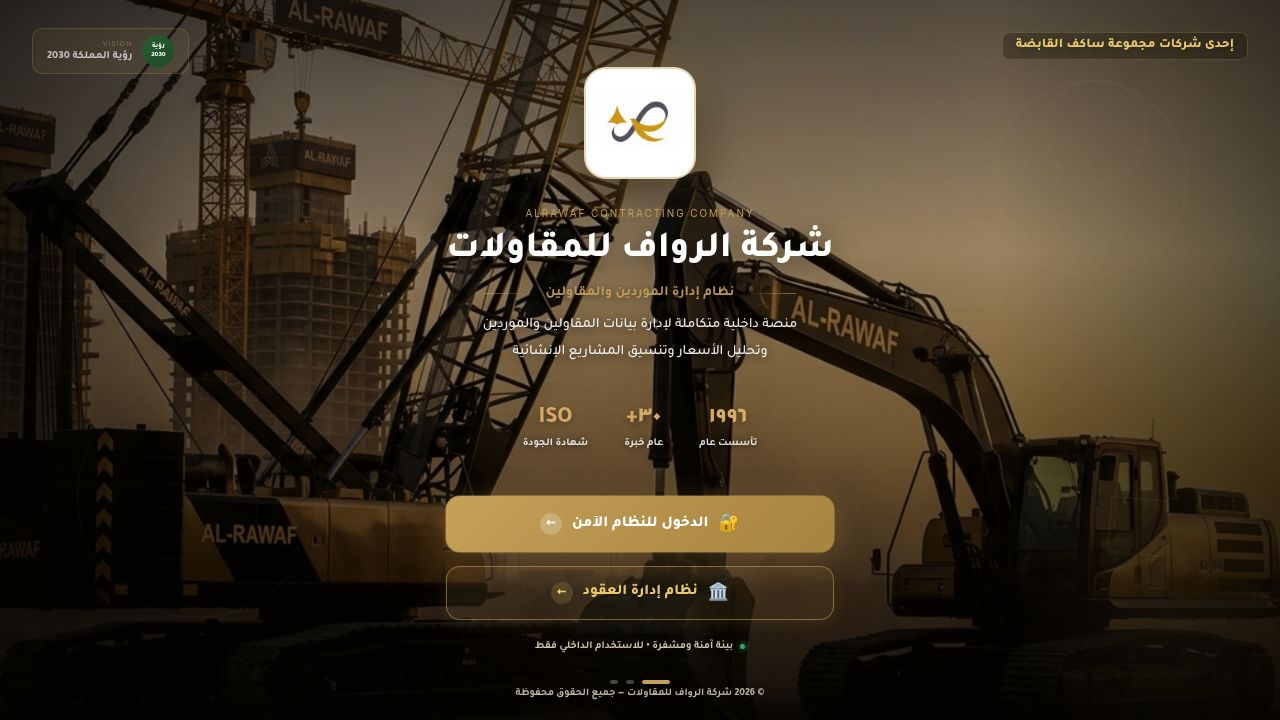
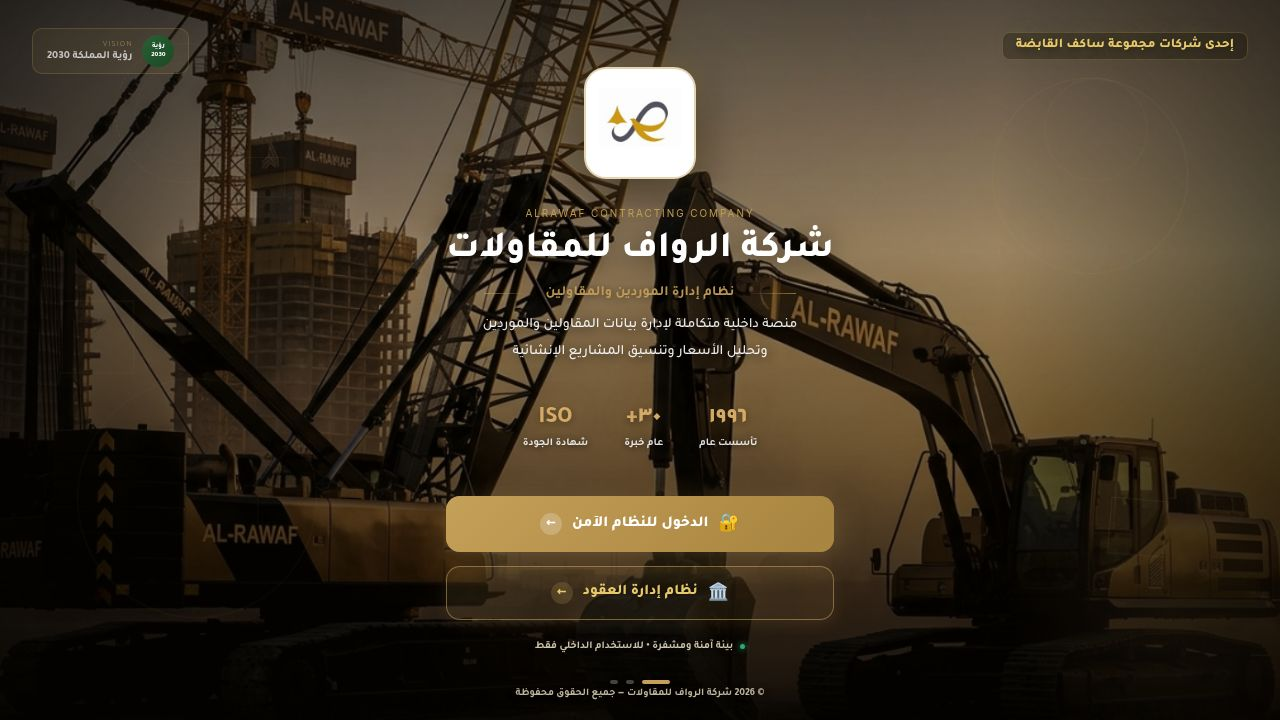
Add contract type breakdown chart to analytics dashboard
Task: #17 — Add a contract type breakdown chart to analytics

## What was done
- Added a new "توزيع العقود حسب النوع" (Contract Type Breakdown) section to
  ContractAnalytics.tsx, placed between the existing stage/status charts and
  the live activity feed.

## Implementation details
- `typeData` is computed dynamically from the already-fetched `contracts` array.
  Known types (إنشاء, صيانة, توريد, خدمات, مقاولات) are shown first in order
  with their designated brand colors; any unknown/future types are appended
  automatically with fallback colors — no hard-coded exclusions.
- No new API endpoint needed: `listContracts(filters)` already returns the
  fully-filtered set, so the chart automatically respects all active analytics
  filters (date range, vendor, value range, and contract type).
- Chart uses a Recharts BarChart with per-bar Cell coloring.
- Custom tooltip shows both the contract count and total SAR value for each type.
- Summary cards on the right show count (Arabic numerals) + total value in
  millions (م ر.س) per type with color-tinted backgrounds.
- Empty state ("لا توجد عقود بعد") shown when no contracts match current filters.
- Added `hexToRgb` helper for generating translucent background colors.
- Added `CONTRACT_TYPE_LIST` and `TYPE_COLORS` constants for known-type mapping.

## No deviations from task spec
- Task requested a bar or pie chart — implemented as a bar chart with side
  summary cards for richer data display.
[…]

diff --git a/artifacts/rawaf-dashboard/src/contracts/ContractAnalytics.tsx b/artifacts/rawaf-dashboard/src/contracts/ContractAnalytics.tsx
@@ -43,6 +43,17 @@ function numberToArabic(n: number): string {
 
 const PIE_COLORS = [GREEN, GOLD, RED, "#3498db"];
 
+const CONTRACT_TYPE_LIST = ["إنشاء", "صيانة", "توريد", "خدمات", "مقاولات"] as const;
+const TYPE_COLORS = [GOLD, "#3498db", GREEN, "#9b59b6", "#e67e22"];
+
+function hexToRgb(hex: string): string {
+  const h = hex.replace("#", "");
+  const r = parseInt(h.substring(0, 2), 16);
+  const g = parseInt(h.substring(2, 4), 16);
+  const b = parseInt(h.substring(4, 6), 16);
+  return `${r}, ${g}, ${b}`;
+}
+
 type DatePreset = "all" | "thisMonth" | "thisQuarter" | "thisYear" | "custom";
 
 function getPresetRange(preset: DatePreset, customFrom: string, customTo: string): { dateFrom?: string; dateTo?: string } {
@@ -132,6 +143,27 @@ export default function ContractAnalytics({ onNavigateStage }: Props) {
     { name: "مُعادة", value: rejected || 0 },
     { name: "جديدة", value: pending || 0 },
   ].filter(d => d.value > 0);
+
+  const typeData = (() => {
+    const knownOrder = CONTRACT_TYPE_LIST as readonly string[];
+    const allTypes = Array.from(new Set(contracts.map(c => c.contractType).filter(Boolean)));
+    const ordered = [
+      ...knownOrder.filter(t => allTypes.includes(t)),
+      ...allTypes.filter(t => !knownOrder.includes(t)),
+    ];
+    const fallbackColors = ["#e67e22", "#1abc9c", "#e74c3c", "#2ecc71", "#f39c12"];
+    return ordered.map(type => {
+      const knownIdx = knownOrder.indexOf(type);
+      const color = knownIdx >= 0 ? TYPE_COLORS[knownIdx] : fallbackColors[allTypes.indexOf(type) % fallbackColors.length];
+      const matches = contracts.filter(c => c.contractType === type);
+      return {
+        name: type,
+        count: matches.length,
+        totalValue: matches.reduce((sum, c) => sum + (c.value ?? 0), 0),
+        color,
+      };
+    }).filter(d => d.count > 0);
+  })();
 
   const senior = contracts.filter(c => c.status === "active" && (c.currentStage === 8 || c.currentStage === 9)).length;
   const review = contracts.filter(c => c.status === "active" && c.currentStage >= 1 && c.currentStage <= 7).length;
@@ -654,6 +686,130 @@ export default function ContractAnalytics({ onNavigateStage }: Props) {
             </div>
           )}
         </div>
+      </div>
+
+      {/* ── Contract Type Breakdown ── */}
+      <div style={{
+        background: "#fff", border: `1px solid ${GOLD_BORDER}`,
+        borderRadius: 14, padding: "22px 20px", marginBottom: 20,
+        boxShadow: "0 4px 20px rgba(0,0,0,0.05)",
+      }}>
+        <div style={{ marginBottom: 18 }}>
+          <div style={{ fontSize: "0.9rem", fontWeight: 800, color: "#1a1206", marginBottom: 2 }}>
+            📋 توزيع العقود حسب النوع
+          </div>
+          <div style={{ fontSize: "0.7rem", color: "#9b8060" }}>
+            عدد العقود والقيمة الإجمالية لكل تصنيف
+          </div>
+        </div>
+
+        {typeData.length === 0 ? (
+          <div style={{ textAlign: "center", color: "#9b8060", fontSize: "0.82rem", padding: "32px 0" }}>
+            لا توجد عقود بعد
+          </div>
+        ) : (
+          <div style={{ display: "grid", gridTemplateColumns: "1fr auto", gap: 24, alignItems: "start" }}>
+            {/* Bar chart */}
+            <ResponsiveContainer width="100%" height={220}>
+              <BarChart
+                data={typeData}
+                margin={{ top: 5, right: 10, left: -10, bottom: 5 }}
+                barCategoryGap="35%"
+              >
+                <defs>
+                  {typeData.map((d, i) => (
+                    <linearGradient key={i} id={`typeGrad-${i}`} x1="0" y1="0" x2="0" y2="1">
+                      <stop offset="0%" stopColor={d.color} stopOpacity={0.95} />
+                      <stop offset="100%" stopColor={d.color} stopOpacity={0.60} />
+                    </linearGradient>
+                  ))}
+                </defs>
+                <CartesianGrid strokeDasharray="3 3" stroke="rgba(0,0,0,0.06)" vertical={false} />
+                <XAxis
+                  dataKey="name"
+                  tick={{ fontSize: 11, fill: "#4a3520", fontFamily: "'Cairo', sans-serif", fontWeight: 700 }}
+                  axisLine={false}
+                  tickLine={false}
+                />
+                <YAxis
+                  tick={{ fontSize: 10, fill: "#9b8060" }}
+                  allowDecimals={false}
+                  axisLine={false}
+                  tickLine={false}
+                />
+                <Tooltip
+                  content={({ active, payload, label }) => {
+                    if (!active || !payload || payload.length === 0) return null;
+                    const d = payload[0].payload as typeof typeData[0];
+                    return (
+                      <div style={{
+                        background: "#fff",
+                        border: `1px solid ${GOLD_BORDER}`,
+                        borderRadius: 10,
+                        padding: "10px 14px",
+                        fontFamily: "'Cairo', 'Tajawal', sans-serif",
+                        fontSize: "0.78rem",
+                        direction: "rtl",
+                        boxShadow: "0 4px 16px rgba(0,0,0,0.10)",
+                        minWidth: 160,
+                      }}>
+                        <div style={{ fontWeight: 800, color: "#1a1206", marginBottom: 6, borderBottom: `1px solid ${GOLD_BORDER}`, paddingBottom: 6 }}>
+                          {label}
+                        </div>
+                        <div style={{ display: "flex", justifyContent: "space-between", gap: 16, marginBottom: 4 }}>
+                          <span style={{ color: "#9b8060" }}>عدد العقود</span>
+                          <span style={{ fontWeight: 700, color: d.color }}>{d.count}</span>
+                        </div>
+                        <div style={{ display: "flex", justifyContent: "space-between", gap: 16 }}>
+                          <span style={{ color: "#9b8060" }}>القيمة الإجمالية</span>
+                          <span style={{ fontWeight: 700, color: "#8B6914" }}>
+                            {d.totalValue.toLocaleString("ar-SA")} ر.س
+                          </span>
+                        </div>
+                      </div>
+                    );
+                  }}
+                  cursor={{ fill: "rgba(197,160,89,0.07)" }}
+                />
+                <Bar
+                  dataKey="count"
+                  radius={[6, 6, 0, 0]}
+                  maxBarSize={56}
+                >
+                  {typeData.map((d, i) => (
+                    <Cell key={i} fill={`url(#typeGrad-${i})`} />
+                  ))}
+                </Bar>
+              </BarChart>
+            </ResponsiveContainer>
+
+            {/* Summary cards per type */}
+            <div style={{ display: "flex", flexDirection: "column", gap: 8, minWidth: 200 }}>
+              {typeData.map((d, i) => (
+                <div key={i} style={{
+                  display: "flex", alignItems: "center", justifyContent: "space-between",
+                  padding: "8px 12px", borderRadius: 9,
+                  background: `rgba(${hexToRgb(d.color)}, 0.07)`,
+                  border: `1px solid rgba(${hexToRgb(d.color)}, 0.20)`,
+                  gap: 12,
+                }}>
+                  <div style={{ display: "flex", alignItems: "center", gap: 8 }}>
+                    <div style={{ width: 10, height: 10, borderRadius: "50%", background: d.color, flexShrink: 0 }} />
+                    <span style={{ fontSize: "0.78rem", fontWeight: 700, color: "#1a1206" }}>{d.name}</span>
+                  </div>
+                  <div style={{ textAlign: "left", flexShrink: 0 }}>
+                    <div style={{ fontSize: "1rem", fontWeight: 900, color: d.color, lineHeight: 1 }}>
+                      {numberToArabic(d.count)}
+                    </div>
+                    <div style={{ fontSize: "0.62rem", color: "#9b8060", marginTop: 1 }}>
+                      {(d.totalValue / 1_000_000).toLocaleString("ar-SA", { minimumFractionDigits: 1, maximumFractionDigits: 1 })} م ر.س
+                    </div>
+                  </div>
+                </div>
+              ))}
+            </div>
+          </div>
+        )}
       </div>
 
       {/* ── Live Activity Feed ── */}